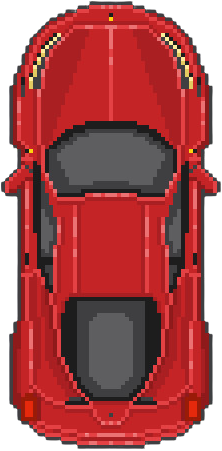
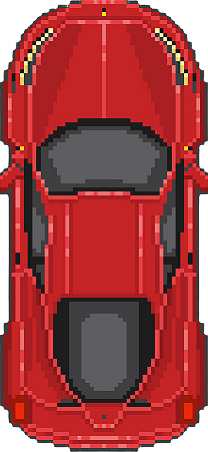
Mapa texturizado, melhora no hitbox dos carros, nameTAGS

diff --git a/core/src/com/mygdx/game/MainScreen.java b/core/src/com/mygdx/game/MainScreen.java
@@ -42,6 +42,8 @@ public class MainScreen implements Screen {
 
     private TiledMap tiledmap;
 
+    private String NameTAG1,NameTAG2;
+
     @Override
     public void show() {
         // *** START TILED MAP ***//
@@ -98,7 +100,7 @@ public class MainScreen implements Screen {
 
         Gdx.input.setInputProcessor(inputMultiplexer);
         // setting car position to track starting line
-        float positionX = 95;
+        float positionX = 137;
         float positionY = 380;
         car1.setX(positionX);
         car1.setY(positionY);
@@ -110,6 +112,9 @@ public class MainScreen implements Screen {
 
         car2.setSize(car2.getWidth()/10,car2.getHeight()/10);
         car2.setOriginCenter();
+
+        NameTAG1 = "daniel";
+        NameTAG2 = "junges";
 
 
         // *** START MUSIC *** //
@@ -157,6 +162,7 @@ public class MainScreen implements Screen {
 
         printTime(car1,hours,min,sec,alturaTexto);
         bitmapFont.draw(batch,"VOLTA" + "           ?", car1.getX()+70, car1.getY()+alturaTexto+15);
+        //printNameTag(car2,NameTAG1);
 
         batch.end();
 
@@ -178,9 +184,9 @@ public class MainScreen implements Screen {
         car2.draw(batch, delta);
         batch.setProjectionMatrix(camera.combined);
 
-
         printTime(car2,hours,min,sec,alturaTexto);
         bitmapFont.draw(batch,"VOLTA" + "           ?", car2.getX()+70, car2.getY()+alturaTexto+15);
+        //printNameTag(car1,NameTAG2);
 
         batch.end();
         // *** END BATCH CAR 2 ***
@@ -257,6 +263,10 @@ public class MainScreen implements Screen {
                 }
             }
         }
+    }
+
+    public void printNameTag(Car car,String name){
+        bitmapFont.draw(batch, "" + name, car.getX()-car.getWidth()/2, car.getY()+car.getHeight()+15);
     }
 
 }
